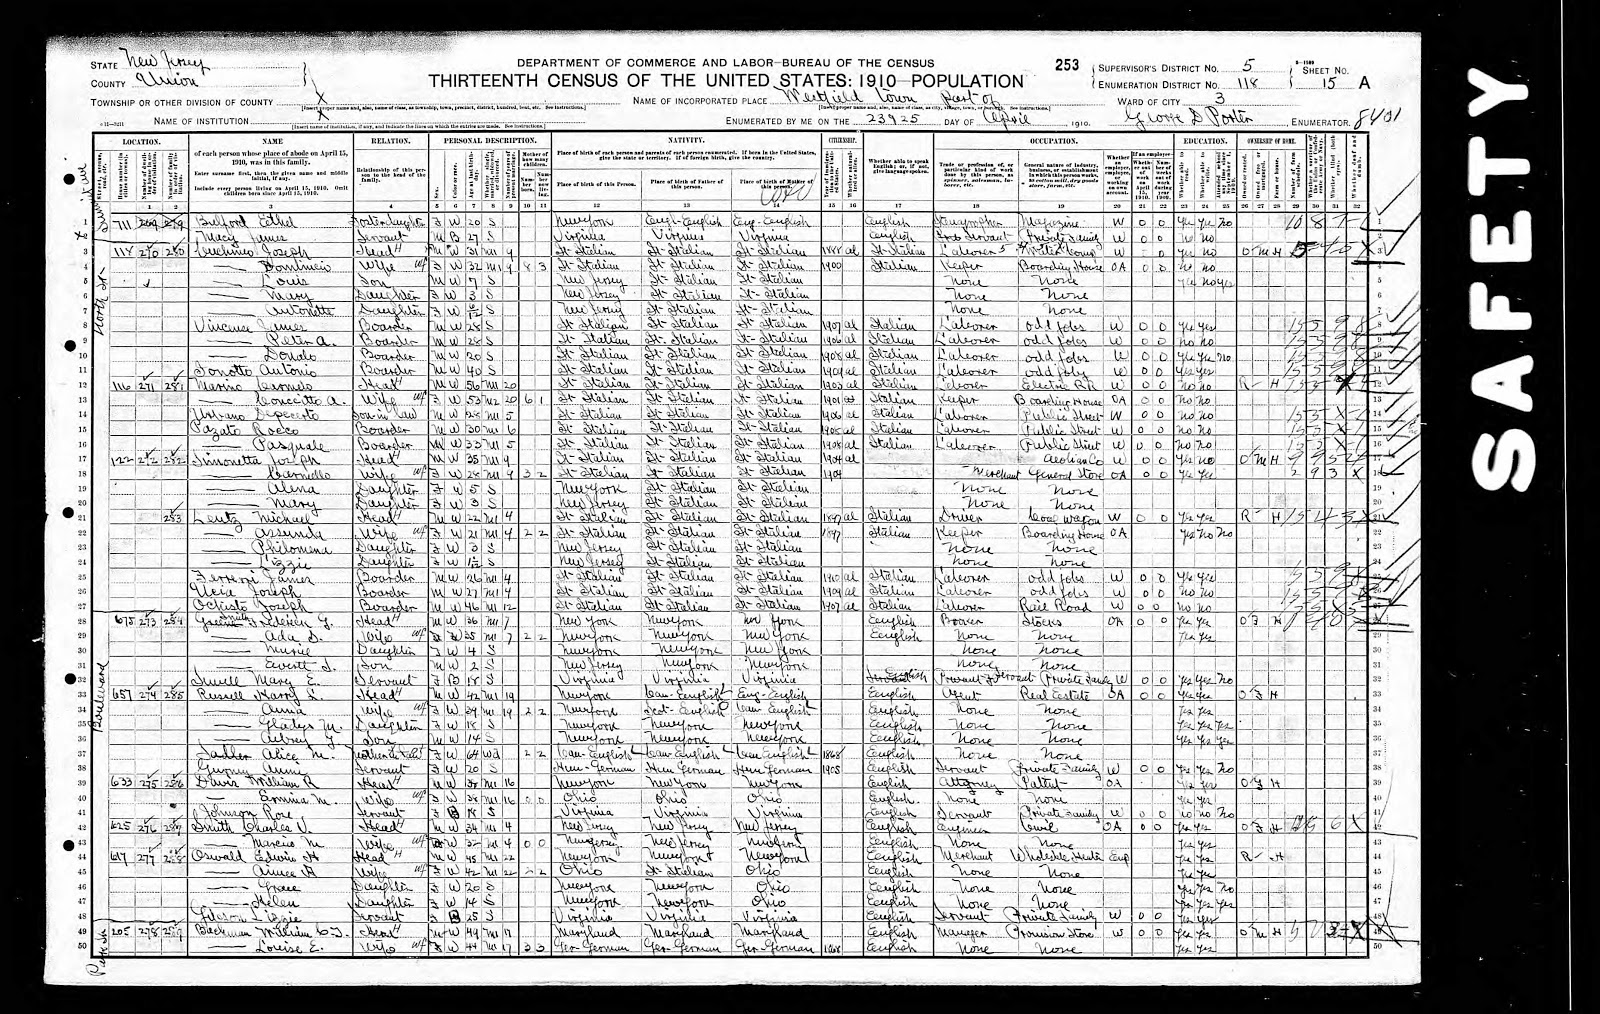
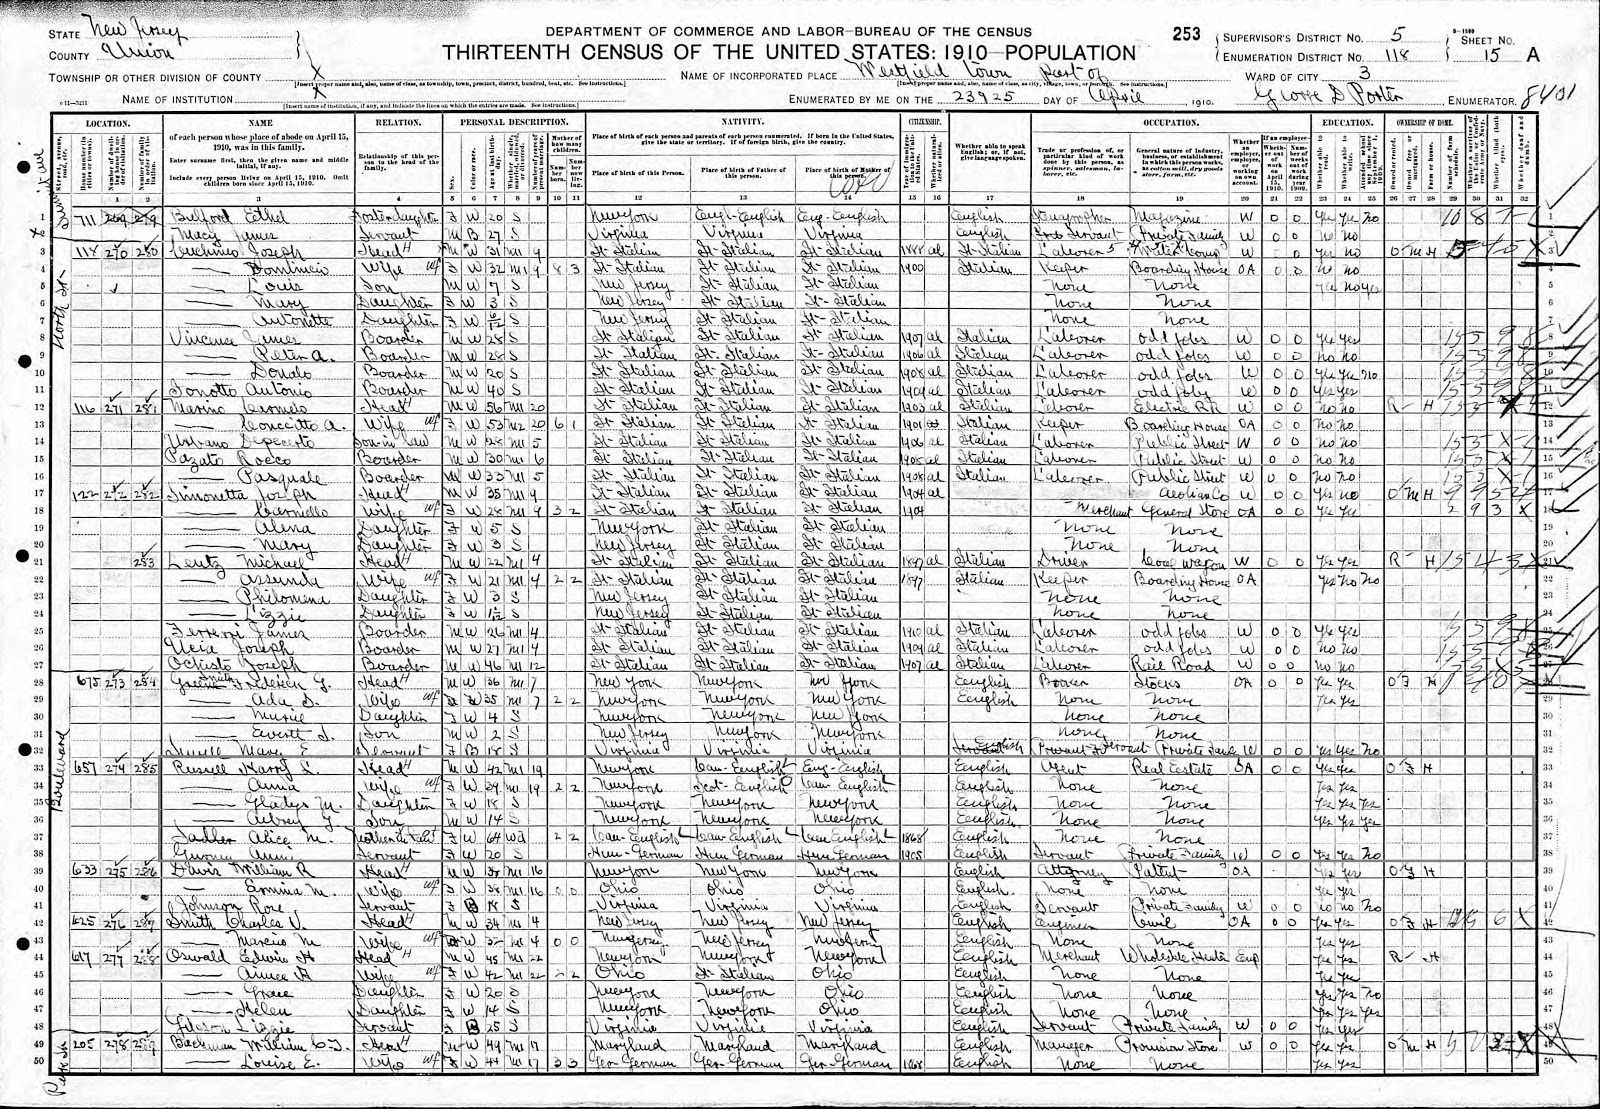
Added seasonal theme

diff --git a/public/static/css/app.css b/public/static/css/app.css
@@ -10973,7 +10973,7 @@ a.text-dark:focus {
 }
 
 .light {
-  background-image: url(/images/sanbornMap.png?08282a7fb58dab794e3c72961e777504);
+  background-image: url(/images/sanbornMap.jpg?122d8d52c99a36e3f874af922bd1f739);
   background-position: 50% 20%;
   color: #1c1f2b;
   -webkit-animation-name: slide;
@@ -10997,6 +10997,66 @@ a.text-dark:focus {
 
 .dark .modal {
   color: #1c1f2b;
+}
+
+.dark .highlighted {
+  color: #1c1f2b;
+}
+
+.dark .highlighted::marker {
+  color: #FCFCFC;
+}
+
+.dark .quote__letter {
+  border: 1px solid #FCFCFC;
+}
+
+.seasonal {
+  background-color: #1c1f2b;
+  color: #FCFCFC;
+}
+
+.seasonal a {
+  color: #FF7619 !important;
+}
+
+.seasonal .modal {
+  color: #1c1f2b;
+}
+
+.seasonal .highlighted {
+  color: #1c1f2b;
+}
+
+.seasonal .highlighted::marker {
+  color: #FCFCFC;
+}
+
+.seasonal .quote__letter {
+  border: 1px solid #FF7619;
+}
+
+.seasonal nav a {
+  color: #FF7619;
+}
+
+.seasonal .post__title,
+.seasonal .post__subtitle,
+.seasonal .post__section-subtitle,
+.seasonal .post__section-title {
+  color: #FF7619;
+}
+
+.seasonal .bg-white {
+  background-color: #1c1f2b !important;
+}
+
+.seasonal button {
+  color: #FF7619;
+}
+
+.seasonal button .btn-link {
+  color: inherit;
 }
 
 @-webkit-keyframes slide {
@@ -11219,6 +11279,10 @@ a.text-dark:focus {
   font-size: 0.7rem;
   position: relative;
   bottom: 0.4rem;
+}
+
+.highlighted {
+  background-color: #ecf4ff;
 }
 
 ul.bibliography {
@@ -11789,10 +11853,6 @@ article {
   text-align: center !important;
   font-style: italic;
   padding: 15px 15px;
-}
-
-.highlighted {
-  background-color: #ecf4ff;
 }
 
 #chainOfTitle {

diff --git a/resources/sass/global/layout.scss b/resources/sass/global/layout.scss
@@ -1,5 +1,5 @@
 .light {
-  background-image: url('./storage/assets/sanbornMap.png');
+  background-image: url('./storage/assets/sanbornMap.jpg');
   background-position: 50% 20%;
   color: $black;
   animation-name: slide;
@@ -18,6 +18,66 @@
 
   .modal {
     color: $black;
+  }
+
+  .highlighted {
+    color: $black;
+  }
+
+  .highlighted::marker {
+    color: $white;
+  }
+
+  .quote__letter {
+    border: 1px solid $white;
+  }
+
+}
+
+.seasonal {
+  background-color: $black;
+  color: $white;
+
+  a {
+    color: $halloween !important;
+  }
+
+  .modal {
+    color: $black;
+  }
+
+  .highlighted {
+    color: $black;
+  }
+
+  .highlighted::marker {
+    color: $white;
+  }
+
+  .quote__letter {
+    border: 1px solid $halloween;
+  }
+
+  nav a {
+    color: $halloween;
+  }
+
+  .post__title,
+  .post__subtitle,
+  .post__section-subtitle,
+  .post__section-title {
+    color: $halloween;
+  }
+
+  .bg-white {
+    background-color: $black !important;
+  }
+
+  button {
+    color: $halloween;
+    .btn-link {
+      color: inherit;
+    }
   }
 }
 

diff --git a/resources/sass/content/posts/post.scss b/resources/sass/content/posts/post.scss
@@ -56,10 +56,6 @@ figure {
     line-height: 5rem;
 }
 
-
-
-
-
 aside {
     text-align: center !important;
     ul {
@@ -71,8 +67,6 @@ blockquote {
     font-size: 1.3rem;
 }
 
-
-
 article {
     margin-top: 2rem;
 }
@@ -82,10 +76,6 @@ article {
     text-align: center !important;
     font-style: italic;
     padding: 15px 15px;
-}
-
-.highlighted {
-    background-color: #ecf4ff; // rgb(236,244,255)
 }
 
 #chainOfTitle {

diff --git a/resources/sass/_variables.scss b/resources/sass/_variables.scss
@@ -24,6 +24,7 @@ $redgif-purple: #8c18f1;
 
 $black: #1c1f2b;
 $white: #FCFCFC; //#DDEAFC;
+$halloween: #FF7619; // rgb(255,118,25)
 
 $post-bg: #383c42;
 $sidebar-bg: #42464e;

diff --git a/resources/sass/global/global.scss b/resources/sass/global/global.scss
@@ -63,6 +63,10 @@
   bottom: .4rem;
 }
 
+.highlighted {
+  background-color: #ecf4ff; // rgb(236,244,255)
+}
+
 ul.bibliography {
   list-style: none;
 

diff --git a/resources/views/content/thewatcher.blade.php b/resources/views/content/thewatcher.blade.php
@@ -123,7 +123,7 @@
                             As it turned out, the family they purchased 657 Boulevard from, the Woods, also received a
                             strange letter but didn't think much of it and threw it away.</p>
                         <p>Unfortunately, the story of the Watcher took an unfortunate turn that had real-life
-                            consequences. In 2014(?) The Broaddus family sued the Woods family. They would have never
+                            consequences. In 2015, the Broaddus family sued the Woods family. They would have never
                             purchased 657 Boulevard had they known about the "Watcher."</p>
                         <p>The Broaddus family went to the police. Then Detective Lieutenant Leonard Lugo, later demoted
                             to Sergeant in 2018 and now retired, informed the Broaddus family to stay silent on the
@@ -184,7 +184,7 @@
                             before selling it to an LLC in 2017.@include('modules.footnote', ['number' => '8']) It sold to a couple in 2019.@include('modules.footnote', ['number' => '9']) You can see 657 Boulevard
                             from Carleton Rd.</p>
 
-                        @include('modules.figure', ['imgSource' => 'carltonRd4-3.jpg', 'caption' => 'Street view from Carleton Rd. 657 Boulevard is in the background. Image via Google Maps'])
+                        @include('modules.figure', ['imgSource' => 'carletonRd4-3.jpg', 'caption' => 'Street view from Carleton Rd. 657 Boulevard is in the background. Image via Google Maps'])
                         @include('modules.figure', ['imgSource' => 'carltonRd2_4-3.jpg', 'caption' => 'Zoomed view from Carleton Rd. 657 Boulevard is in the background. Image via Google maps.'])
                         <p>The house is stucco-clad, in a Colonial Revival style built around 1920. While lovely, the
                             homes on Carleton are not as grand as the homes on Boulevard. Between the house on Carleton

diff --git a/resources/views/content/thewatcher/images.blade.php b/resources/views/content/thewatcher/images.blade.php
@@ -19,7 +19,7 @@
             <img src="{{ asset('storage/assets/CubberlyObit.jpg') }}" alt="">
         </div>
         <div class="carousel-item">
-            <img src="{{ asset('storage/assets/census3-2.jpg') }}" alt="">
+            <img src="{{ asset('storage/assets/census.jpg') }}" alt="">
         </div>
         <div class="carousel-item">
             <img src="{{ asset('storage/assets/657 Boulevard_street view4-3.jpg') }}" alt="">
@@ -28,10 +28,13 @@
             <img src="{{ asset('storage/assets/657BoulevardZillow4-3.jpg') }}" alt="">
         </div>
         <div class="carousel-item">
-            <img src="{{ asset('storage/assets/carltonRd4-3.jpg') }}" alt="">
+            <img src="{{ asset('storage/assets/carletonRd4-3.jpg') }}" alt="">
         </div>
         <div class="carousel-item">
             <img src="{{ asset('storage/assets/carltonRd2_4-3.jpg') }}" alt="">
+        </div>
+        <div class="carousel-item">
+            <img src="{{ asset('storage/assets/carletonRdRealtorViewSquare.jpg') }}" alt="">
         </div>
         <div class="carousel-item">
             <img src="{{ asset('storage/assets/sanbornMap_Square.jpg') }}" alt="">

diff --git a/resources/views/modules/change-theme.blade.php b/resources/views/modules/change-theme.blade.php
@@ -15,8 +15,12 @@
                         <label for="radio1">Light</label>
                     </div>
                     <div class="input__wrapper">
-                        <input type="radio" id="radio2" value="dark" name="theme" {{ Cookie::get('theme') == 'dark' ? 'checked' : '' }}>
+                        <input type="radio" id="radio2" name="theme" value="dark" {{ Cookie::get('theme') == 'dark' ? 'checked' : '' }}>
                         <label for="radio2">Dark</label>
+                    </div>
+                    <div class="input__wrapper">
+                        <input type="radio" id="radio2" name="theme" value="seasonal" {{ Cookie::get('theme') == 'seasonal' ? 'checked' : '' }}>
+                        <label for="radio2">Spooky</label>
                     </div>
                     <button type="submit">Save</button>
                 </form>
